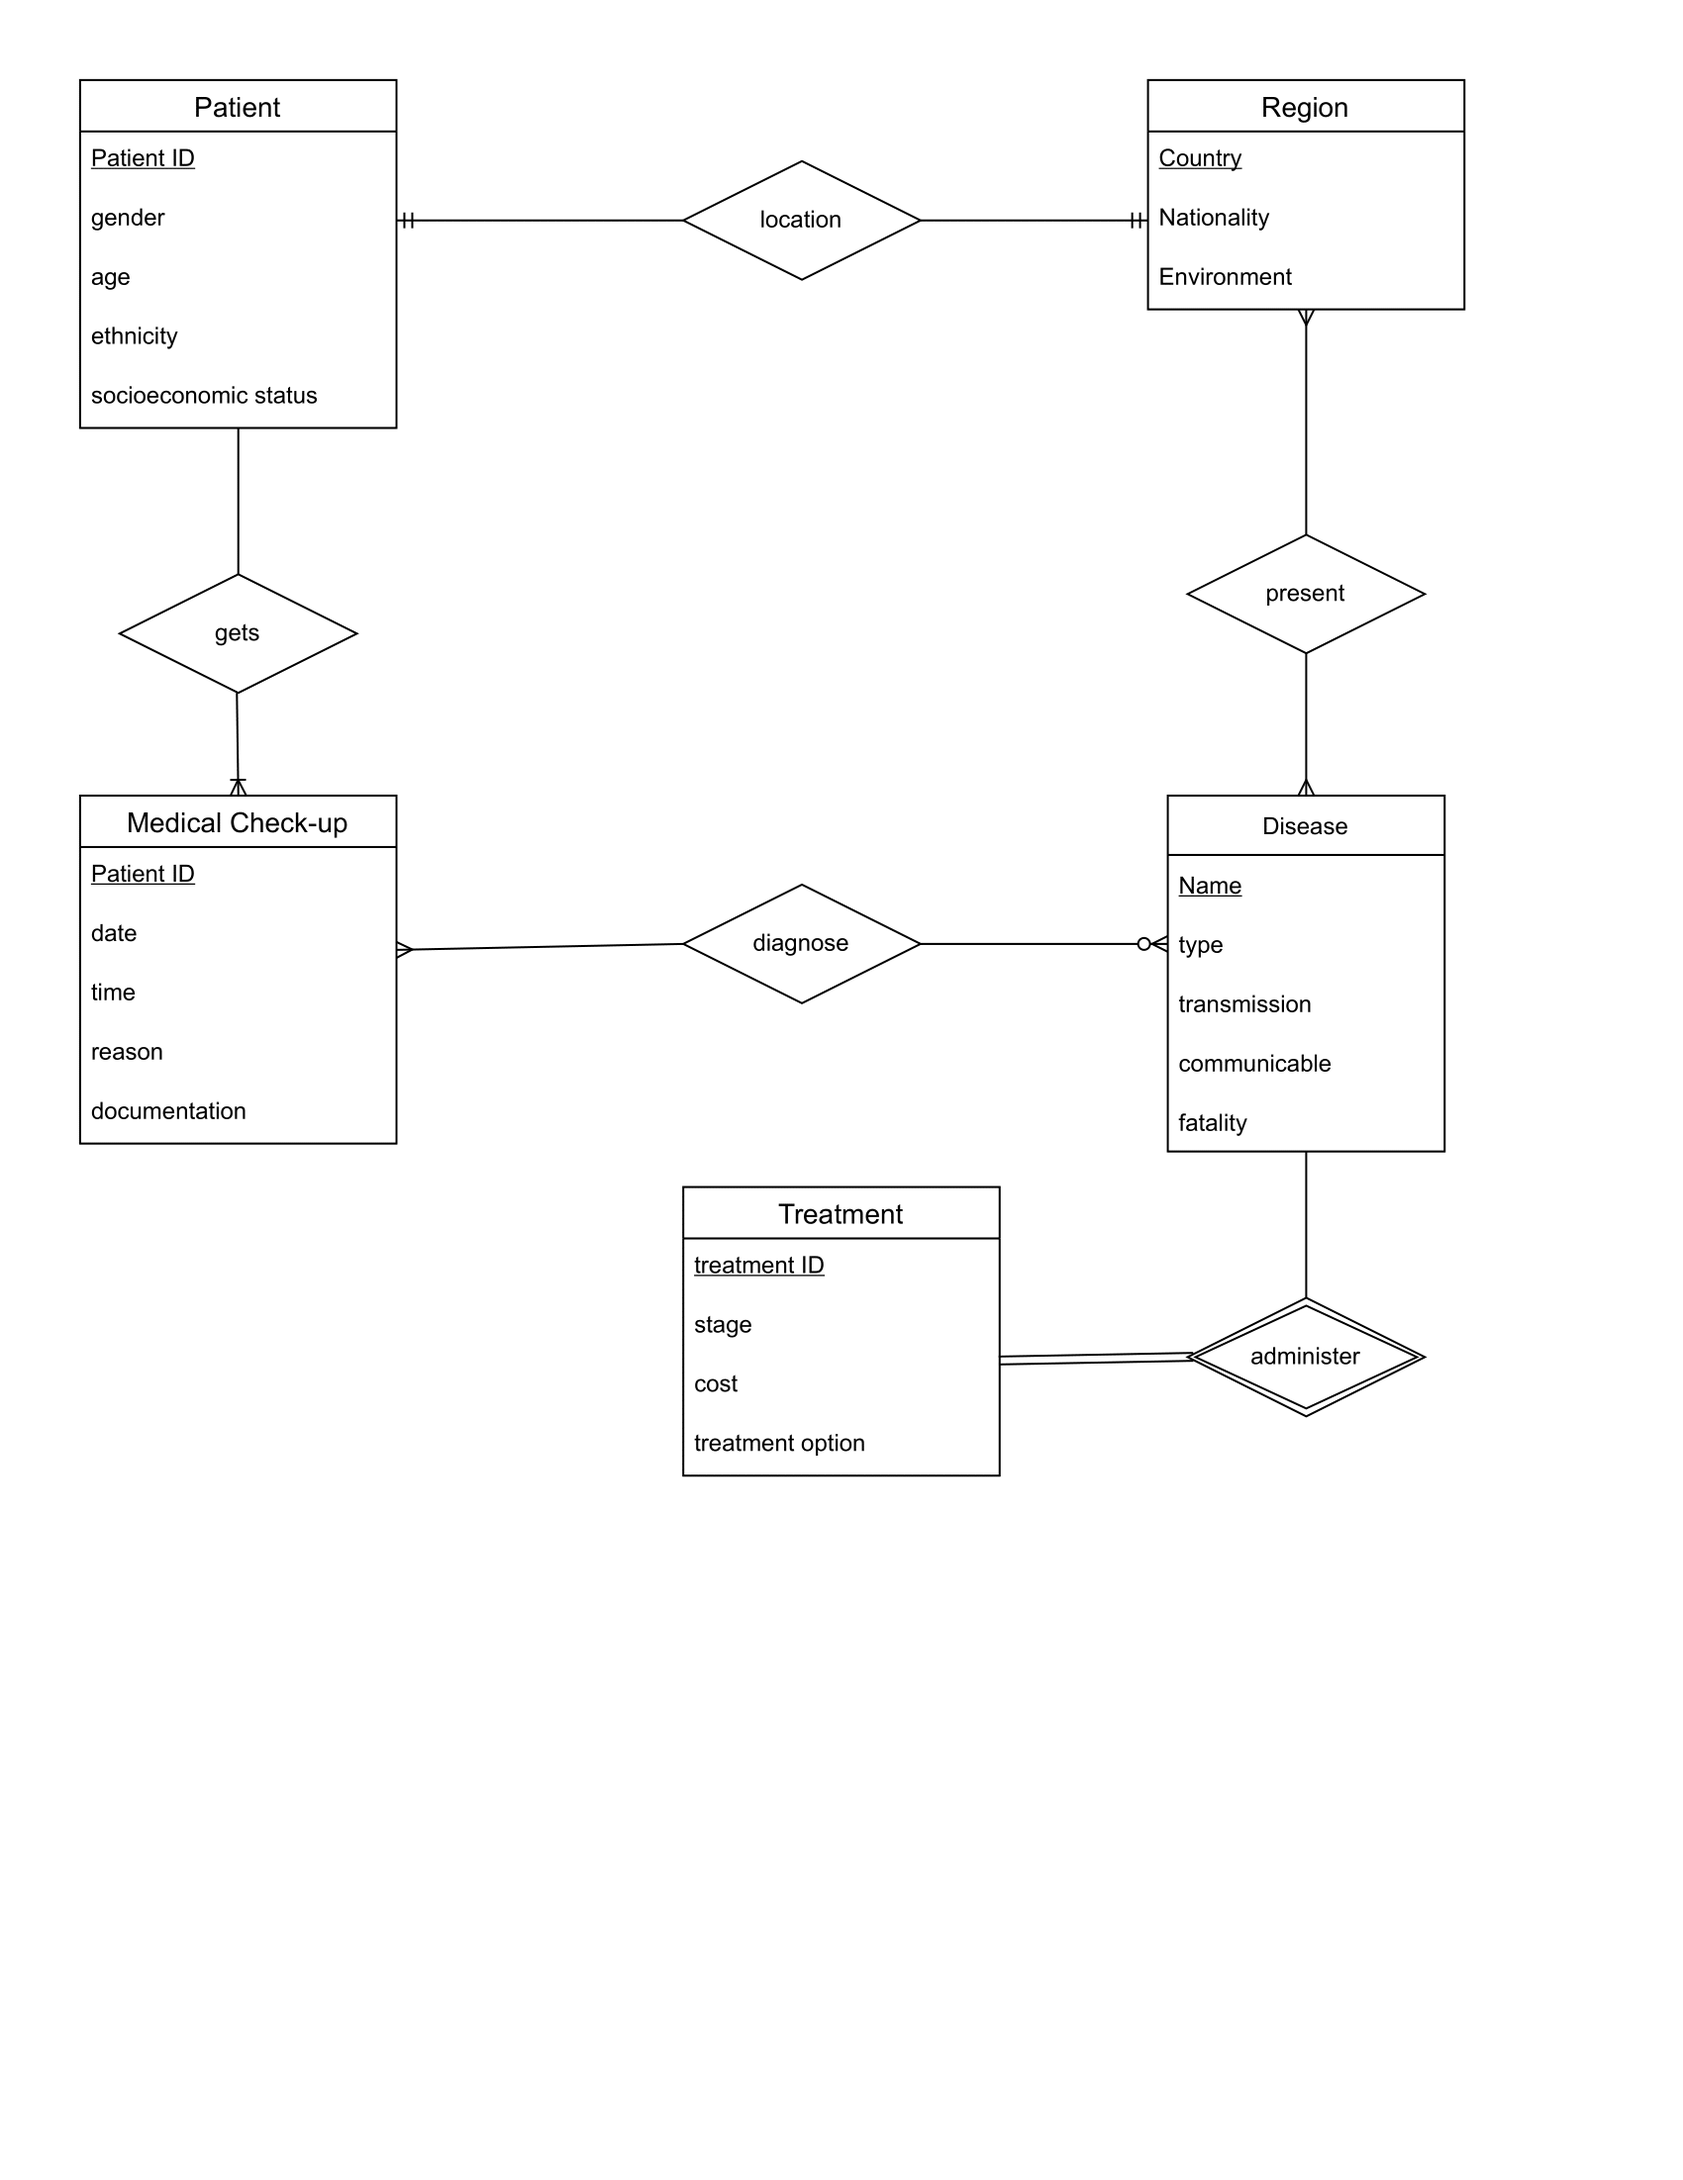
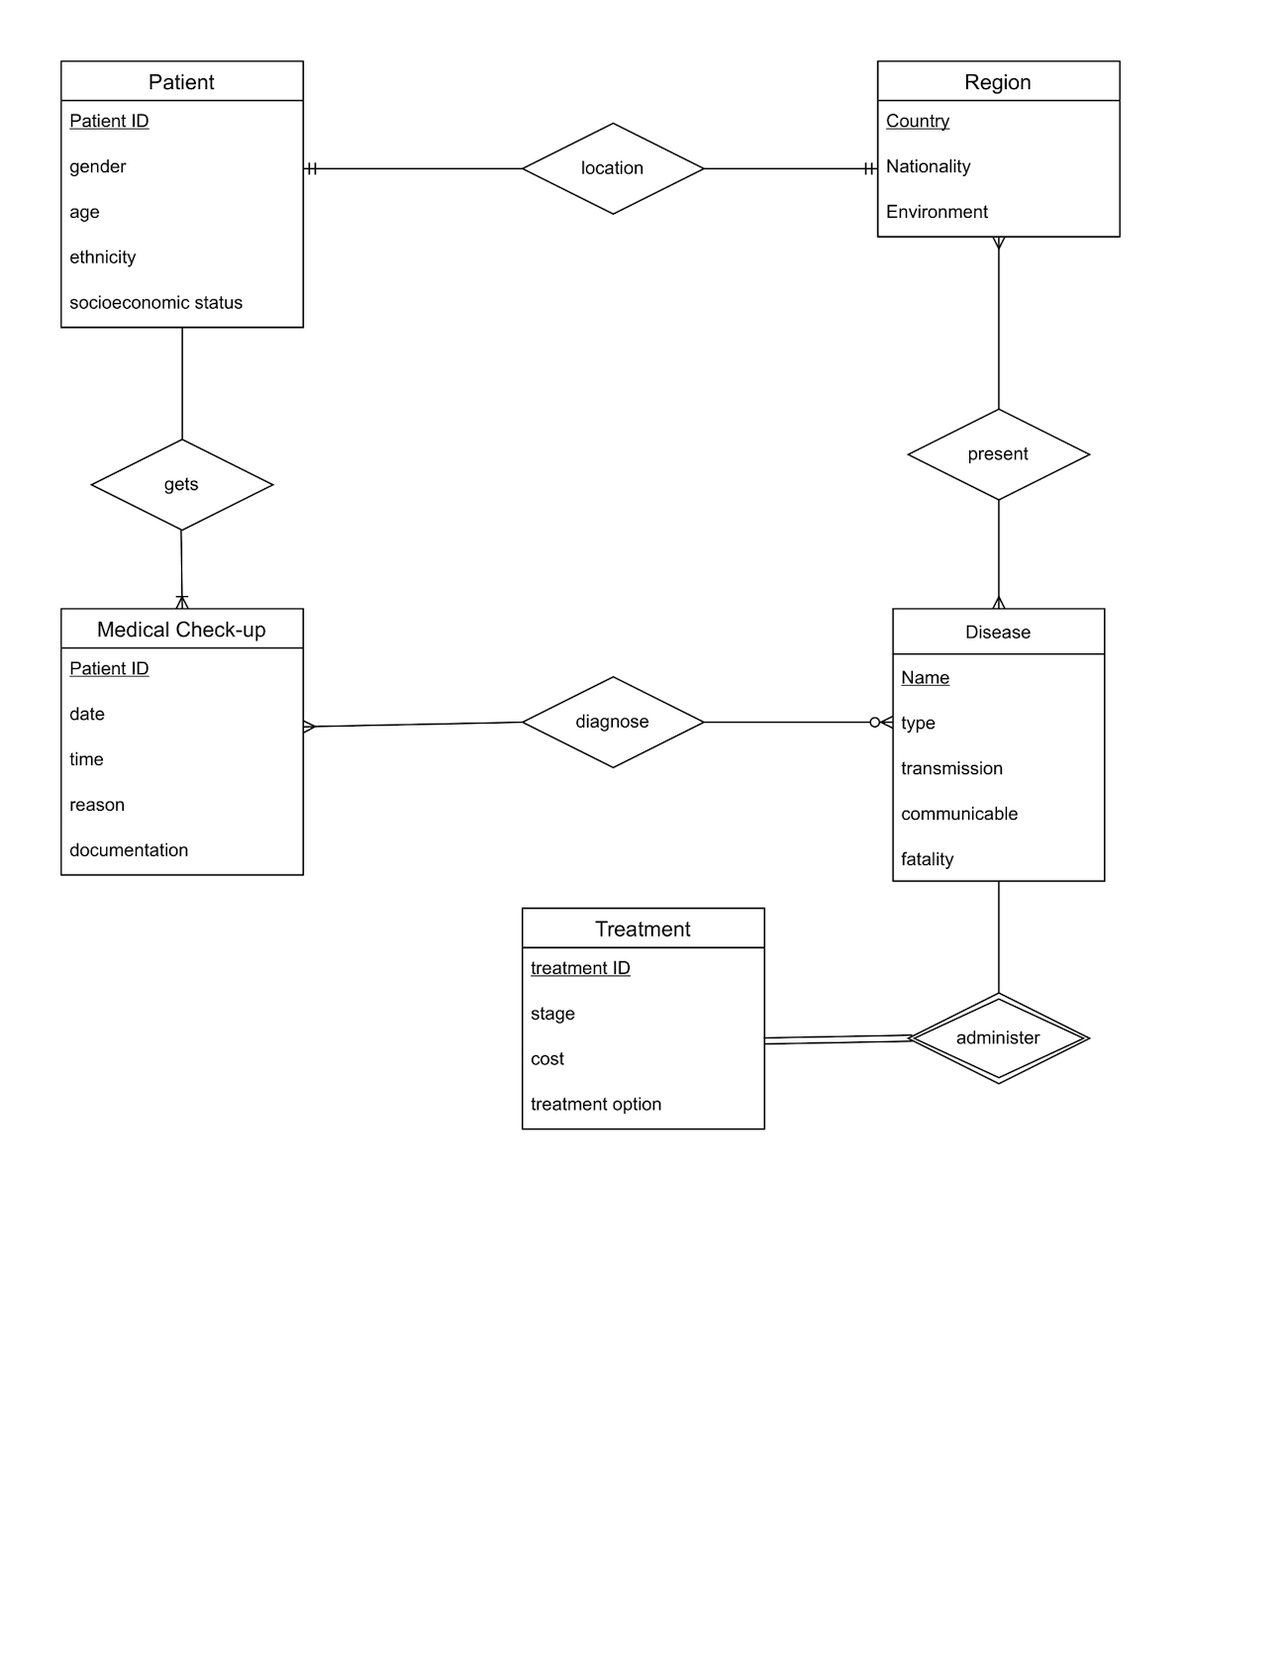
.

diff --git a/Phase1/README copy.md b/Phase1/README copy.md
@@ -20,7 +20,7 @@ We will use various data sets for this project’s entities, such as diseases, p
 There are five entities in our system, each with unique properties and primary keys that define data sets. We are able to establish relationships between the entities using these entities, such as Person to Doctor. We will be able to use queries to discover specific information thanks to the development of this database. 
 
 # ER Diagram
-![ERD](/updated_ER.drawio-1.jpg)
+![ERD](/updated_ER.drawio-1.png)
 
 
 <!-- ![Patient](./Patient.jpg) -->
